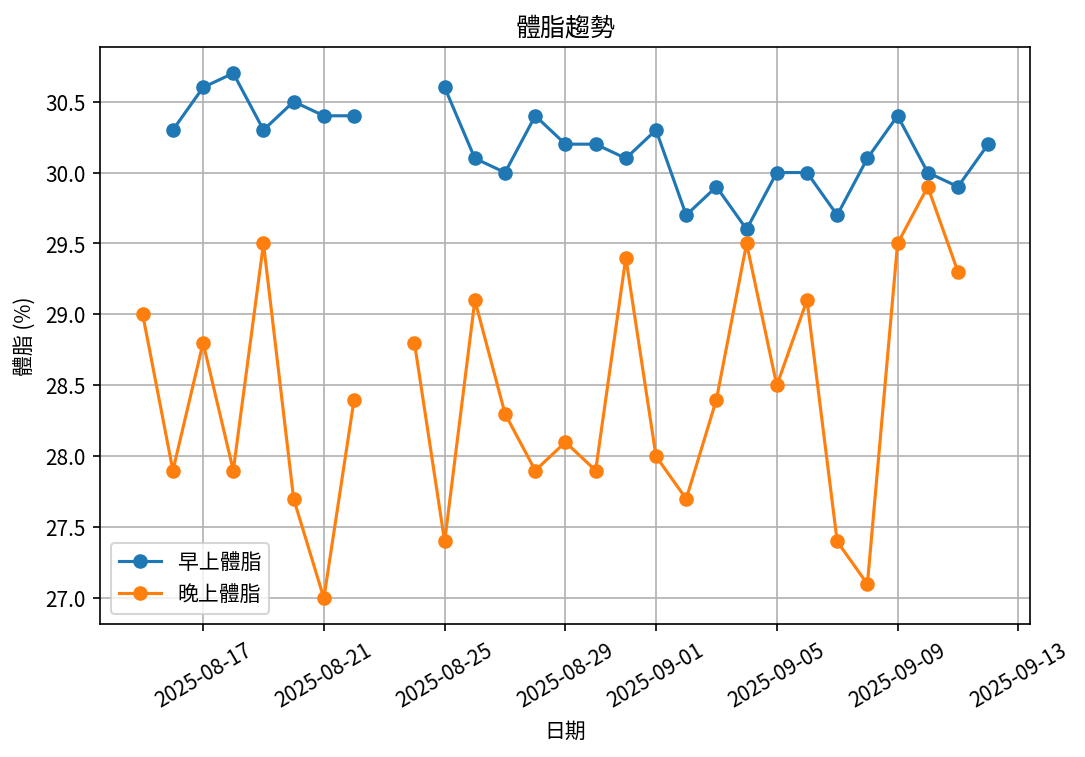
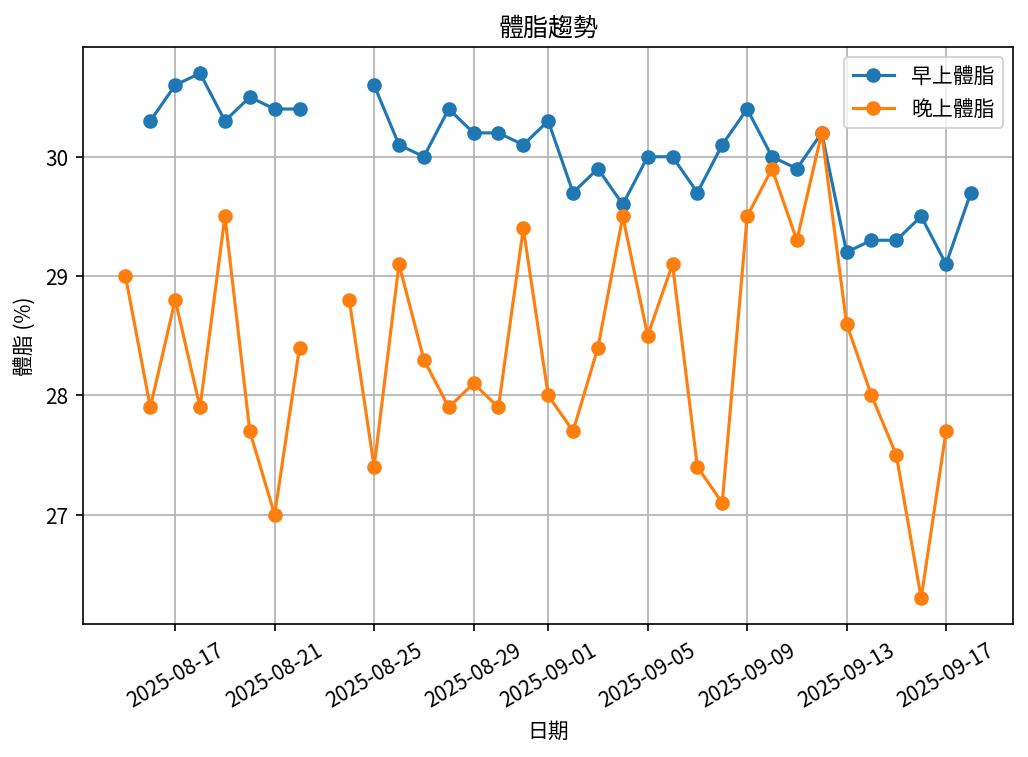
Update values

diff --git a/reports/summary/overall_summary_report.md b/reports/summary/overall_summary_report.md
@@ -1,7 +1,7 @@
 # 📊 減重總結報告
 
-**總期間：2025/08/15 ～ 2025/09/12**  
-**追蹤期間：29 天 (5 週)**  
+**總期間：2025/08/15 ～ 2025/09/18**  
+**追蹤期間：35 天 (5 週)**  
 
 ---
 
@@ -13,13 +13,13 @@
 |:-----------|:------------|:------------|:-----------|:-----------|
 | 08/15 (週五) | 109.0       | 109.8       | nan        | 29.0       |
 | ...        | ...         | ...         | ...        | ...        |
-| 09/06 (週六) | 102.7       | 103.8       | 30.0       | 29.1       |
-| 09/07 (週日) | 102.7       | 103.3       | 29.7       | 27.4       |
-| 09/08 (週一) | 103.1       | 103.5       | 30.1       | 27.1       |
-| 09/09 (週二) | 102.9       | 103.3       | 30.4       | 29.5       |
-| 09/10 (週三) | 102.5       | 103.5       | 30.0       | 29.9       |
-| 09/11 (週四) | 102.6       | 103.0       | 29.9       | 29.3       |
-| 09/12 (週五) | 102.6       | nan         | 30.2       | nan        |
+| 09/12 (週五) | 102.6       | 102.6       | 30.2       | 30.2       |
+| 09/13 (週六) | 102.9       | 102.7       | 29.2       | 28.6       |
+| 09/14 (週日) | 101.4       | 102.5       | 29.3       | 28.0       |
+| 09/15 (週一) | 102.0       | 102.6       | 29.3       | 27.5       |
+| 09/16 (週二) | 102.2       | 102.7       | 29.5       | 26.3       |
+| 09/17 (週三) | 102.1       | 102.5       | 29.1       | 27.7       |
+| 09/18 (週四) | 101.3       | nan         | 29.7       | nan        |
 
 ---
 
@@ -32,23 +32,24 @@
 
 ## 📌 總體統計
 
-- **體重（AM）**：109.0 → 102.6 kg  (**-6.4 kg**), 總平均 104.9 kg  
-- **體重（PM）**：109.8 → 103.0 kg  (**-6.8 kg**), 總平均 105.5 kg  
-- **體重（AM+PM 平均）**：105.2 kg  
+- **體重（AM）**：109.0 → 101.3 kg  (**-7.7 kg**), 總平均 104.4 kg  
+- **體重（PM）**：109.8 → 102.5 kg  (**-7.3 kg**), 總平均 104.9 kg  
+- **體重（AM+PM 平均）**：104.7 kg  
 
-- **體脂（AM）**：30.3% → 30.2%  (**-0.1%**), 總平均 30.2%  
-- **體脂（PM）**：29.0% → 29.3%  (**0.3%**), 總平均 28.4%  
-- **體脂（AM+PM 平均）**：29.3%  
+- **體脂（AM）**：30.3% → 29.7%  (**-0.6%**), 總平均 30.0%  
+- **體脂（PM）**：29.0% → 27.7%  (**-1.3%**), 總平均 28.4%  
+- **體脂（AM+PM 平均）**：29.2%  
 
-- **追蹤天數**：29 天  
-- 平均每週體重變化（AM）：-1.3 kg/週  
-- 平均每週體重變化（PM）：-1.4 kg/週
+- **追蹤天數**：35 天  
+- 平均每週體重變化（AM）：-1.5 kg/週  
+- 平均每週體重變化（PM）：-1.5 kg/週
 
 ---
 
 ## 🎯 重點成果
 
-✅ **體重減少**：在 29 天內減重 6.4 kg（早上測量）  
+✅ **體重減少**：在 35 天內減重 7.7 kg（早上測量）  
+✅ **體脂下降**：體脂率降低 1.3%（晚上測量）  
 
 ## ✅ 持續建議
 - 維持 **高蛋白 (每公斤 1.6–2.0 g)** 與 **每週 2–3 次阻力訓練**  

diff --git a/reports/2025-CW05/2025-CW05_weekly_report.md b/reports/2025-CW05/2025-CW05_weekly_report.md
@@ -1,0 +1,45 @@
+# 📊 減重週報（2025-CW05）
+
+**週期：2025/09/12 ～ 2025/09/18**  
+
+---
+
+## 📈 體重與體脂紀錄
+
+| 日期         |   早上體重 (kg) |   晚上體重 (kg) |   早上體脂 (%) |   晚上體脂 (%) |
+|:-----------|------------:|------------:|-----------:|-----------:|
+| 09/12 (週五) |       102.6 |       102.6 |       30.2 |       30.2 |
+| 09/13 (週六) |       102.9 |       102.7 |       29.2 |       28.6 |
+| 09/14 (週日) |       101.4 |       102.5 |       29.3 |       28   |
+| 09/15 (週一) |       102   |       102.6 |       29.3 |       27.5 |
+| 09/16 (週二) |       102.2 |       102.7 |       29.5 |       26.3 |
+| 09/17 (週三) |       102.1 |       102.5 |       29.1 |       27.7 |
+| 09/18 (週四) |       101.3 |       nan   |       29.7 |      nan   |
+
+---
+
+## 📊 趨勢圖
+
+![體重趨勢](2025-CW05_weight_trend.png)
+![體脂率趨勢](2025-CW05_bodyfat_trend.png)
+
+---
+
+## 📌 本週統計
+
+- 體重（AM）：102.6 → 101.3 kg  (**-1.3 kg**), 週平均 102.1 kg  
+- 體重（PM）：102.6 → 102.5 kg  (**-0.1 kg**), 週平均 102.6 kg  
+- 體重（AM+PM 平均）：102.3 kg  
+
+- 體脂（AM）：30.2% → 29.7%  (**-0.5%**), 週平均 29.5%  
+- 體脂（PM）：30.2% → 27.7%  (**-2.5%**), 週平均 28.0%  
+- 體脂（AM+PM 平均）：28.8%  
+
+- 紀錄天數：7 天
+
+---
+
+## ✅ 建議
+- 維持 **高蛋白 (每公斤 1.6–2.0 g)** 與 **每週 2–3 次阻力訓練**  
+- 飲水 **≥ 3 L/天**（依活動量調整）  
+- 若每週下降 > 2.5 kg，建議微調熱量或與醫師討論  
